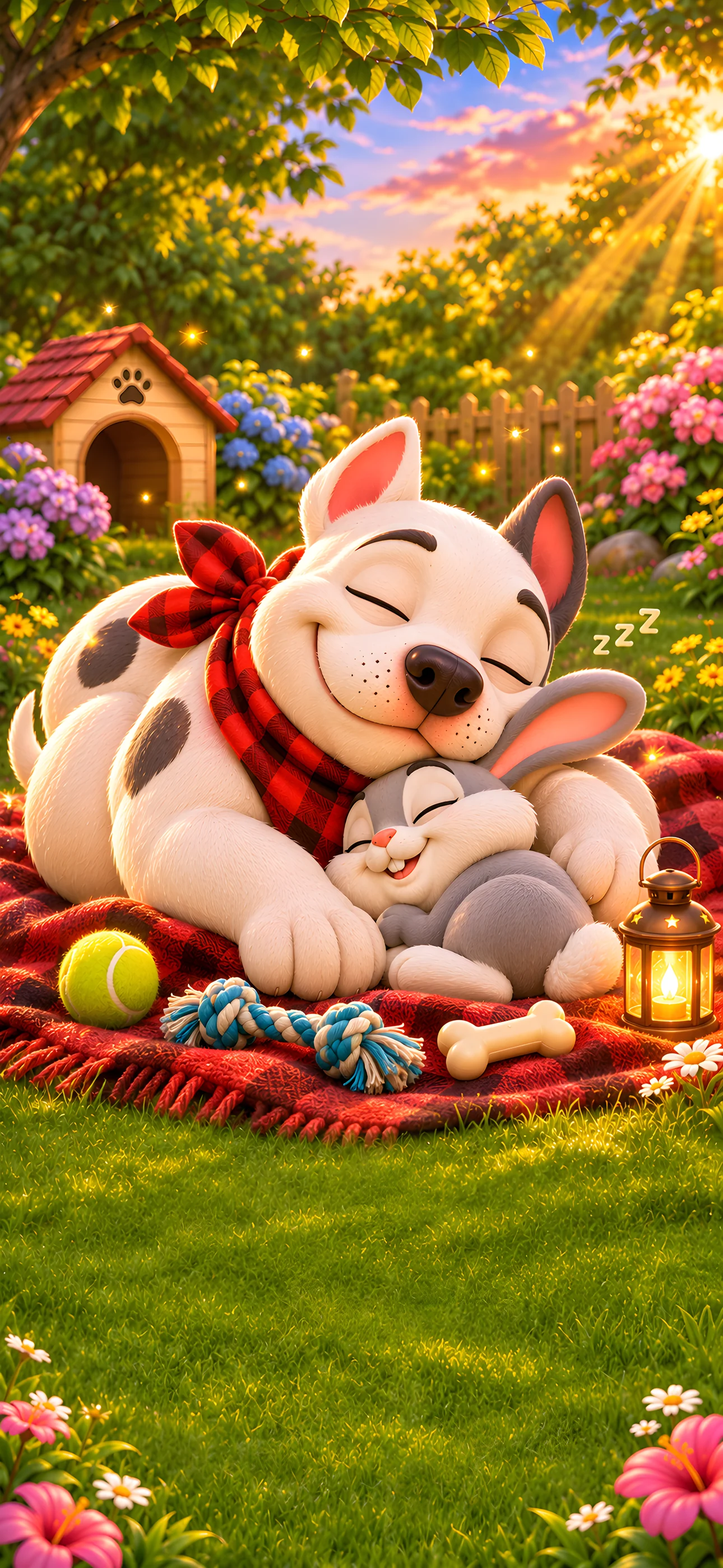
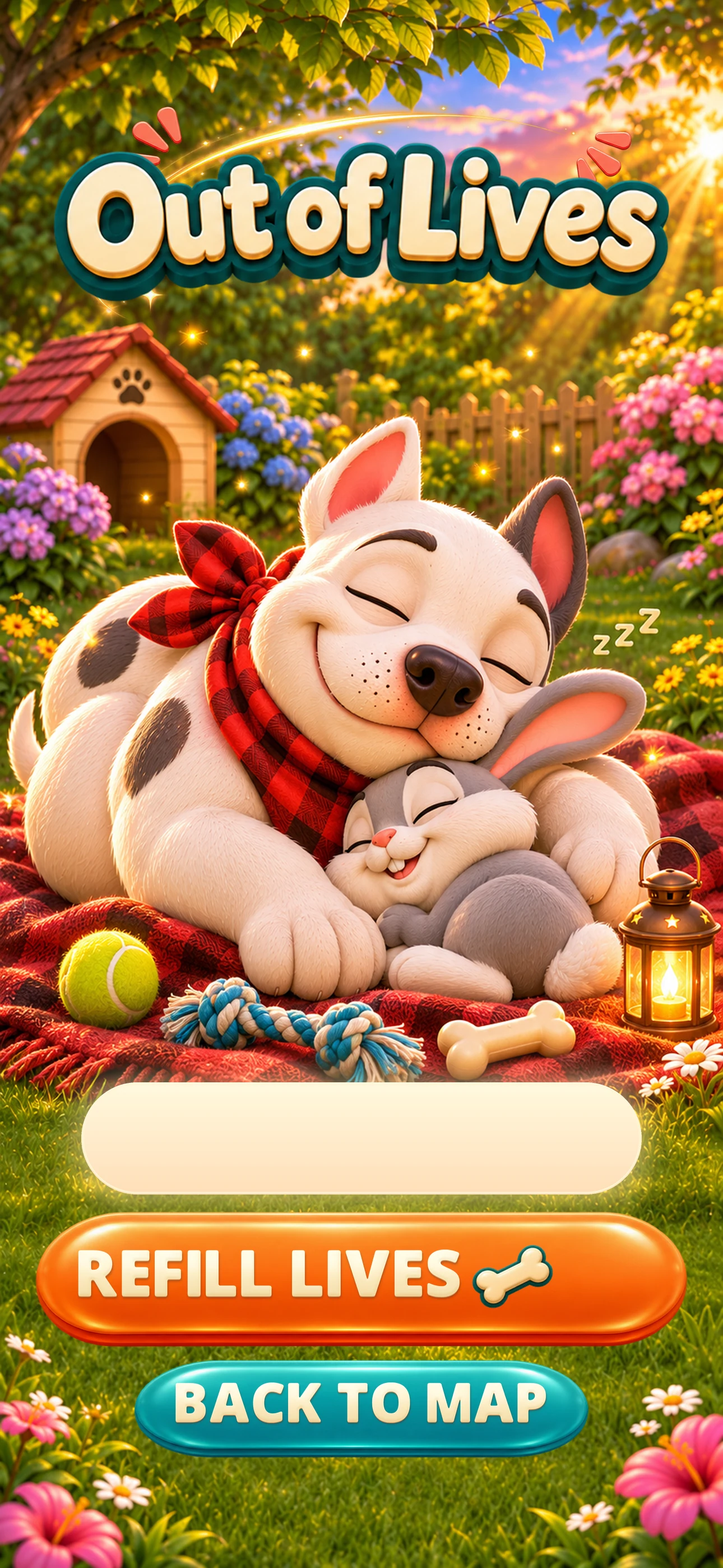
Out of Lives, Get a Booster, Need More Bones use ChatGPT's full-size exports; timer and bone count on the painted cream tags
Claude-Session: https://claude.ai/code/session_01HqXo8oXM9XTGkWGnUkjv9K

diff --git a/moments.js b/moments.js
@@ -4,13 +4,13 @@
    number is written live in the game's rounded lettering. */
 (function(){
 try{const q=new URLSearchParams(location.search);}catch(e){}   // approved: on for everyone
-const R='bovo11/mom/',V='?v=8',DW=1290,DH=2796;
+const R='bovo11/mom/',V='?v=9',DW=1290,DH=2796;
 const L={"ready":{"10_rambo":[63,1009,974,898],"11_mr_bunny":[853,1201,392,416],"20_title_accents":[102,178,1081,434],"21_title":[268,253,754,278],"30_primary_button_blank":[221,2348,848,246],"31_hard_blank":[483,665,324,110],"32_super_hard_blank":[483,666,324,109]},
  "pause":{"10_rambo":[535,857,706,765],"11_mr_bunny":[46,1246,514,376],"20_title_accents":[102,178,1081,434],"21_title":[206,244,876,289],"30_primary_button_blank":[98,2112,1094,211],"31_restart_button_blank":[82,2376,541,170],"32_quit_button_blank":[668,2377,537,170],"40_music_toggle_on_blank":[778,1729,326,106],"41_sound_toggle_on_blank":[778,1894,326,106],"42_music_toggle_off_blank":[778,1730,326,106],"43_sound_toggle_off_blank":[778,1895,326,106],"50_music_icon":[200,1729,114,107],"51_sound_icon":[189,1895,137,104],"52_restart_icon":[133,2416,90,90],"53_quit_icon":[723,2417,96,87]},
  "fail":{},
- "lives":{"20_title_accents":[135,178,994,399],"21_title":[93,250,1104,290],"30_primary_button":[61,2218,1168,246],"31_secondary_button":[237,2483,816,178]},
+ "lives":{},
  "boost":{},
- "bones":{"20_title_accents":[207,182,876,352],"21_title":[277,193,736,360],"30_primary_button":[190,2170,910,217],"31_secondary_button":[245,2400,800,189]},
+ "bones":{},
  "lose":{"10_rambo":[108,582,764,1125],"11_mr_cardinal":[826,1136,376,376],"20_title_accents":[102,178,1081,434],"21_title":[61,198,1169,297],"22_still_needed_title":[375,1741,540,128],"30_primary_button_blank":[82,2145,1129,234],"31_give_up_button_blank":[301,2426,688,158],"50_bone_icon":[838,2212,119,95]}};
 const ART={ready_play:[885,261],pause_resume:[1115,250],pause_restart:[577,180],pause_quit:[547,185],pause_on:[345,117],pause_off:[343,117],lose_plus5:[1144,241],lose_giveup:[691,169]};
 const css=document.createElement('style');css.textContent=`
@@ -157,13 +157,12 @@ window.showFail=function(){if(typeof S!=='undefined'&&S)S.over=true;
 // ---------- OUT OF LIVES ----------
 window.gpNoLives=function(){if(typeof S!=='undefined'&&S)S.over=true;
  want('lives').then(()=>{open('lives','tap');const k='lives',PL=window.Eco?Eco.PRICE.lives:90;
-  layer(k,'20_title_accents','ttl');layer(k,'21_title','ttl');
-  const tm=text('Next life in --:--',645,2112,104,{maxW:1150});
+  const tm=text('Next life in --:--',645,2030,104,{maxW:900,style:'ink'});
   const tick=()=>{if(kind!=='lives'||!window.Eco)return;if(Eco.hearts()>0){close();if(S)S.over=false;showIntro();return}tm.set('Next life in '+Eco.fmt(Eco.nextIn()));later(1000,tick)};
-  const p=imgButton(k,'30_primary_button',()=>{if(!Eco.spend(PL)){close();needBones(PL,()=>gpNoLives());return}Eco.refillHearts();close();if(S)S.over=false;showIntro()},'Refill lives for '+PL+' bones');
-  onButton(p,k,'30_primary_button',String(PL),1082,2336,74);
-  imgButton(k,'31_secondary_button',()=>{close();BA.nav('map.html')},'Back to map');
-  later(1000,()=>p.classList.add('pulse'));show();tick()})};
+  const p=zoneAt(65,2161,1162,239,()=>{if(!Eco.spend(PL)){close();needBones(PL,()=>gpNoLives());return}Eco.refillHearts();close();if(S)S.over=false;showIntro()},'Refill lives for '+PL+' bones');
+  const pr=h('div','tx',stage);items.push(()=>{Object.assign(pr.style,{left:1080*s+'px',top:2272*s+'px'});GBBFont&&GBBFont.draw(pr,String(PL),104*s,{style:'button'})});
+  zoneAt(239,2427,809,163,()=>{close();BA.nav('map.html')},'Back to map');
+  show();tick()})};
 // ---------- GET A BOOSTER ----------
 const BN=['Paw Tap','Free Swap','Bomb','Shuffle'],BI=['bst_paw','bst_swap','bst_bomb','bst_shuffle'];
 function zoneAt(x,y,w,hh,fn,aria){const el=h('div','bt zn',stage);el.addEventListener('pointerdown',()=>el.classList.add('dn'));['pointerup','pointerleave','pointercancel'].forEach(e=>el.addEventListener(e,()=>el.classList.remove('dn')));el.setAttribute('role','button');el.setAttribute('aria-label',aria);
@@ -180,12 +179,11 @@ window.gpBuy=function(bk){want('boost').then(()=>{open('boost','tap');const k='b
   zoneAt(292,2495,707,170,()=>{close()},'Not now');
   show()})};
 // ---------- NOT ENOUGH BONES ----------
-window.needBones=function(need,back){want('bones').then(()=>{open('bones','tap');const k='bones',have=window.Eco?Eco.bones():0;
-  layer(k,'20_title_accents','ttl');layer(k,'21_title','ttl');
-  text('You have '+have+' / need '+need,645,2068,104,{maxW:1150});
-  const g=imgButton(k,'30_primary_button',()=>{close();BA.nav('bovo11/shop.html')},'Go to shop');
-  imgButton(k,'31_secondary_button',()=>{close();back&&back()},'Not now');
-  later(1000,()=>g.classList.add('pulse'));show()})};
+window.needBones=function(need,back){want('bones').then(()=>{open('bones','tap');const have=window.Eco?Eco.bones():0;
+  text('You have '+have+' / need '+need,645,1996,100,{maxW:900,style:'ink'});
+  zoneAt(193,2112,902,207,()=>{close();BA.nav('bovo11/shop.html')},'Go to shop');
+  zoneAt(248,2340,792,180,()=>{close();back&&back()},'Not now');
+  show()})};
 // ---------- BANNERS over the board ----------
 const bcss=document.createElement('style');bcss.textContent=`#gmb{position:fixed;left:50%;top:40%;z-index:250;pointer-events:none;transform:translate(-50%,-50%);width:min(88vw,430px);opacity:0}
 #gmb img{display:block;width:100%;height:auto}

diff --git a/game_new.html b/game_new.html
@@ -1,4 +1,4 @@
-<!doctype html><html><head><meta charset="utf-8"><meta name="gbb-build" content="1795156618"><script src="review_shim.js?v=4"></script><script src="economy.js?v=1"></script><meta name="viewport" content="width=device-width,initial-scale=1,maximum-scale=1,user-scalable=no,viewport-fit=cover"><title>Good Boy Bobo</title><script src="audio.js?v=26"></script><script src="motion.js?v=24"></script><script src="ui_life.js?v=6"></script><link rel="stylesheet" href="base.css?v=23"><link rel="stylesheet" href="uikit/kit.css?v=9">
+<!doctype html><html><head><meta charset="utf-8"><meta name="gbb-build" content="1795169381"><script src="review_shim.js?v=4"></script><script src="economy.js?v=1"></script><meta name="viewport" content="width=device-width,initial-scale=1,maximum-scale=1,user-scalable=no,viewport-fit=cover"><title>Good Boy Bobo</title><script src="audio.js?v=26"></script><script src="motion.js?v=24"></script><script src="ui_life.js?v=6"></script><link rel="stylesheet" href="base.css?v=23"><link rel="stylesheet" href="uikit/kit.css?v=9">
 <style>
 html,body{overscroll-behavior:none;touch-action:none;-webkit-user-select:none;user-select:none;-webkit-touch-callout:none}#app{touch-action:none}#app *{-webkit-touch-callout:none}
 #bgA,#bgB{position:absolute;inset:0;background-size:cover;background-position:center 42%;transition:opacity .9s}
@@ -739,7 +739,7 @@ $('pz').onclick=()=>{if(!S)return;showOv(`<img class="ttl2" src="a/L_t_paused.we
 window.T={get S(){return S},findMove,localMatch,trySwap,startLevel,LEVELS,setFast:v=>FAST=v,tapCell};
 document.body.dataset.bt=Q.get('bt')||'cream70';document.getElementById('topw').style.transform=`translate(10px,${Q.get('hu')??14}px) scale(.9)`;if(Q.get('dof'))document.body.dataset.dof=Q.get('dof');if(Q.get('calm'))document.body.dataset.calm=Q.get('calm');document.body.dataset.hud=Q.get('hud')||'smoke';
 addEventListener("load",()=>startLevel(Math.max(0,(+Q.get("lv")||1)-1)));
-</script><script src="game_fx.js?v=25"></script><script src="rambo_live.js?v=23"></script><script src="fontA.js?v=5"></script><script src="game2_new.js?v=25"></script><script src="uikit/kit.js?v=15"></script><script src="pop_kit.js?v=25"></script><script src="polish.js?v=5"></script><script src="frameless.js?v=22"></script><script src="rambo_react.js?v=12"></script><script src="rambo_live2.js?v=4"></script><script src="booster_tip.js?v=1"></script><script src="game_fx2.js?v=2"></script><script src="game_fx3.js?v=6"></script><script src="win_fs.js?v=12"></script><script src="moments.js?v=12"></script><script>(function(){const _sl=window.startLevel,lv0=+(new URLSearchParams(location.search).get('lv')||1);window.startLevel=function(n,o){if(Math.floor(n/10)!==Math.floor((lv0-1)/10))return location.replace('game_new.html?lv='+(n+1));return _sl(n,o)}})();
+</script><script src="game_fx.js?v=25"></script><script src="rambo_live.js?v=23"></script><script src="fontA.js?v=5"></script><script src="game2_new.js?v=25"></script><script src="uikit/kit.js?v=15"></script><script src="pop_kit.js?v=25"></script><script src="polish.js?v=5"></script><script src="frameless.js?v=22"></script><script src="rambo_react.js?v=12"></script><script src="rambo_live2.js?v=4"></script><script src="booster_tip.js?v=1"></script><script src="game_fx2.js?v=2"></script><script src="game_fx3.js?v=6"></script><script src="win_fs.js?v=12"></script><script src="moments.js?v=13"></script><script>(function(){const _sl=window.startLevel,lv0=+(new URLSearchParams(location.search).get('lv')||1);window.startLevel=function(n,o){if(Math.floor(n/10)!==Math.floor((lv0-1)/10))return location.replace('game_new.html?lv='+(n+1));return _sl(n,o)}})();
 (function(){
 // ===== Which background each chapter uses (easy to swap) =====
 // s01 Teal woodland · s02 Blue backyard · s03 Rooftops · s04 Streetlamps · s05 Mountains · s06 Rolling hills

diff --git a/bovo11/index.html b/bovo11/index.html
@@ -1,4 +1,4 @@
-<!doctype html><html><head><meta charset="utf-8"><meta name="gbb-build" content="1795156618"><script src="../review_shim.js?v=4"></script><script src="../economy.js?v=1"></script><script src="../col.js?v=1"></script><script src="../fontA.js?v=5"></script><script src="../audio.js?v=26"></script><script src="../ui_life.js?v=6"></script>
+<!doctype html><html><head><meta charset="utf-8"><meta name="gbb-build" content="1795169381"><script src="../review_shim.js?v=4"></script><script src="../economy.js?v=1"></script><script src="../col.js?v=1"></script><script src="../fontA.js?v=5"></script><script src="../audio.js?v=26"></script><script src="../ui_life.js?v=6"></script>
 <meta name="viewport" content="width=device-width,initial-scale=1,maximum-scale=1,viewport-fit=cover">
 <meta name="apple-mobile-web-app-capable" content="yes"><meta name="mobile-web-app-capable" content="yes"><meta name="apple-mobile-web-app-status-bar-style" content="black-translucent"><title>Good Boy Bobo — Home (new)</title>
 <style>

diff --git a/bovo11/settings.html b/bovo11/settings.html
@@ -1,4 +1,4 @@
-<!doctype html><html><head><meta charset="utf-8"><meta name="gbb-build" content="1795156618"><script src="../review_shim.js?v=4"></script><script src="../economy.js?v=1"></script><script src="../col.js?v=1"></script><script src="../fontA.js?v=5"></script><script src="../audio.js?v=26"></script><script src="../ui_life.js?v=6"></script>
+<!doctype html><html><head><meta charset="utf-8"><meta name="gbb-build" content="1795169381"><script src="../review_shim.js?v=4"></script><script src="../economy.js?v=1"></script><script src="../col.js?v=1"></script><script src="../fontA.js?v=5"></script><script src="../audio.js?v=26"></script><script src="../ui_life.js?v=6"></script>
 <meta name="viewport" content="width=device-width,initial-scale=1,maximum-scale=1,viewport-fit=cover">
 <meta name="apple-mobile-web-app-capable" content="yes"><meta name="mobile-web-app-capable" content="yes"><meta name="apple-mobile-web-app-status-bar-style" content="black-translucent">
 <title>Good Boy Bobo — Settings</title>

diff --git a/bovo11/friends.html b/bovo11/friends.html
@@ -1,4 +1,4 @@
-<!doctype html><html><head><meta charset="utf-8"><meta name="gbb-build" content="1795156618"><script src="../review_shim.js?v=4"></script><script src="../economy.js?v=1"></script><script src="../col.js?v=1"></script><script src="../fontA.js?v=5"></script><script src="../audio.js?v=26"></script><script src="../ui_life.js?v=6"></script>
+<!doctype html><html><head><meta charset="utf-8"><meta name="gbb-build" content="1795169381"><script src="../review_shim.js?v=4"></script><script src="../economy.js?v=1"></script><script src="../col.js?v=1"></script><script src="../fontA.js?v=5"></script><script src="../audio.js?v=26"></script><script src="../ui_life.js?v=6"></script>
 <meta name="viewport" content="width=device-width,initial-scale=1,maximum-scale=1,viewport-fit=cover">
 <meta name="apple-mobile-web-app-capable" content="yes"><meta name="mobile-web-app-capable" content="yes"><meta name="apple-mobile-web-app-status-bar-style" content="black-translucent">
 <title>Good Boy Bobo — Friends</title>

diff --git a/bovo11/toys.html b/bovo11/toys.html
@@ -1,4 +1,4 @@
-<!doctype html><html><head><meta charset="utf-8"><meta name="gbb-build" content="1795156618"><script src="../review_shim.js?v=4"></script><script src="../economy.js?v=1"></script><script src="../col.js?v=1"></script><script src="../fontA.js?v=5"></script><script src="../audio.js?v=26"></script><script src="../ui_life.js?v=6"></script>
+<!doctype html><html><head><meta charset="utf-8"><meta name="gbb-build" content="1795169381"><script src="../review_shim.js?v=4"></script><script src="../economy.js?v=1"></script><script src="../col.js?v=1"></script><script src="../fontA.js?v=5"></script><script src="../audio.js?v=26"></script><script src="../ui_life.js?v=6"></script>
 <meta name="viewport" content="width=device-width,initial-scale=1,maximum-scale=1,viewport-fit=cover">
 <meta name="apple-mobile-web-app-capable" content="yes"><meta name="mobile-web-app-capable" content="yes"><meta name="apple-mobile-web-app-status-bar-style" content="black-translucent">
 <title>Good Boy Bobo — Toy Box</title>

diff --git a/bovo11/shop.html b/bovo11/shop.html
@@ -1,4 +1,4 @@
-<!doctype html><html><head><meta charset="utf-8"><meta name="gbb-build" content="1795156618"><script src="../review_shim.js?v=4"></script><script src="../economy.js?v=1"></script><script src="../col.js?v=1"></script><script src="../fontA.js?v=5"></script><script src="../audio.js?v=26"></script><script src="../ui_life.js?v=6"></script>
+<!doctype html><html><head><meta charset="utf-8"><meta name="gbb-build" content="1795169381"><script src="../review_shim.js?v=4"></script><script src="../economy.js?v=1"></script><script src="../col.js?v=1"></script><script src="../fontA.js?v=5"></script><script src="../audio.js?v=26"></script><script src="../ui_life.js?v=6"></script>
 <meta name="viewport" content="width=device-width,initial-scale=1,maximum-scale=1,viewport-fit=cover">
 <meta name="apple-mobile-web-app-capable" content="yes"><meta name="mobile-web-app-capable" content="yes"><meta name="apple-mobile-web-app-status-bar-style" content="black-translucent">
 <title>Good Boy Bobo — Shop</title>

diff --git a/bovo10/index.html b/bovo10/index.html
@@ -1,5 +1,5 @@
 <!doctype html>
-<html><head><meta charset="utf-8"><meta name="gbb-build" content="1795156618"><script src="../review_shim.js?v=4"></script><script src="../seamloop.js?v=1"></script><script src="../economy.js?v=1"></script><script src="../col.js?v=1"></script><script src="../fontA.js?v=5"></script><script src="../audio.js?v=26"></script><script src="../ui_life.js?v=6"></script>
+<html><head><meta charset="utf-8"><meta name="gbb-build" content="1795169381"><script src="../review_shim.js?v=4"></script><script src="../seamloop.js?v=1"></script><script src="../economy.js?v=1"></script><script src="../col.js?v=1"></script><script src="../fontA.js?v=5"></script><script src="../audio.js?v=26"></script><script src="../ui_life.js?v=6"></script>
 <meta name="viewport" content="width=device-width,initial-scale=1,maximum-scale=1,viewport-fit=cover">
 <title>Good Boy Bobo — Backyard map</title>
 <style>

diff --git a/index.html b/index.html
@@ -1,4 +1,4 @@
-<!doctype html><html><head><meta charset="utf-8"><meta name="gbb-build" content="1795156618"><script src="review_shim.js?v=4"></script>
+<!doctype html><html><head><meta charset="utf-8"><meta name="gbb-build" content="1795169381"><script src="review_shim.js?v=4"></script>
 <meta name="viewport" content="width=device-width,initial-scale=1,maximum-scale=1,user-scalable=no,viewport-fit=cover">
 <meta name="apple-mobile-web-app-capable" content="yes"><meta name="mobile-web-app-capable" content="yes"><meta name="apple-mobile-web-app-status-bar-style" content="black-translucent">
 <title>Good Boy Bobo</title>

diff --git a/review.html b/review.html
@@ -1,4 +1,4 @@
-<!doctype html><html><head><meta charset="utf-8"><meta name="gbb-build" content="1795156618"><script src="review_shim.js?v=4"></script>
+<!doctype html><html><head><meta charset="utf-8"><meta name="gbb-build" content="1795169381"><script src="review_shim.js?v=4"></script>
 <meta name="viewport" content="width=device-width,initial-scale=1,viewport-fit=cover">
 <title>Good Boy Bobo — Review Build</title>
 <style>
